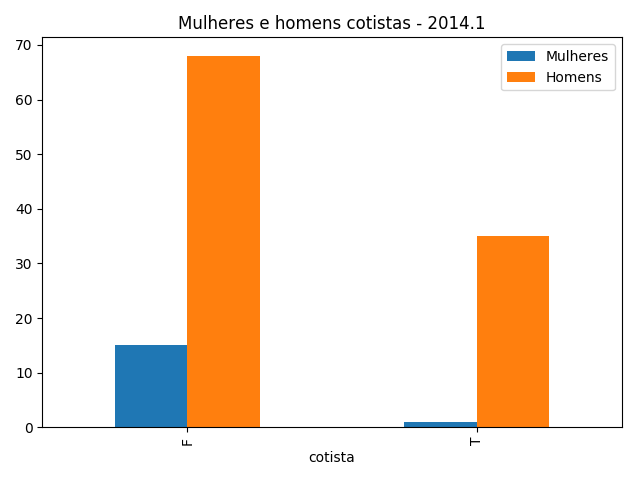
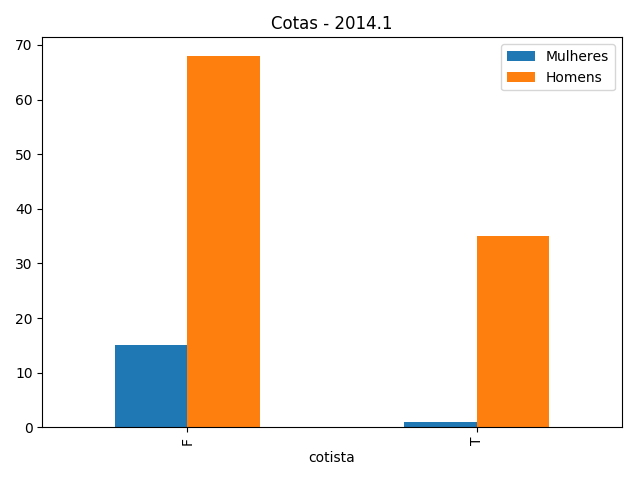
Adiciona plots

Changed region(s): [[0.2812, 0.0312, 0.75, 0.0625]]

diff --git a/results.py b/results.py
@@ -144,7 +144,7 @@ for i, dataframe in enumerate(dataframes):
 	cotista_homens = homens_df.groupby(["cotista"])['sexo'].count()
 	raw_data = {'Mulheres' : cotista_mulheres, 'Homens' : cotista_homens}
 
-	bar_plot(raw_data, semestres[i], "Mulheres e homens cotistas", "cotista")
+	bar_plot(raw_data, semestres[i], "Cotas", "cotista")
 
 	####
 
@@ -178,4 +178,11 @@ for i, dataframe in enumerate(dataframes):
 
 	bar_plot(raw_data, semestres[i], "Auxílio alimentação", "alimentacao")
 
-	
+	####
+
+	transporte_mulheres = mulheres_df.groupby(["possui_auxilio_transporte"])['sexo'].count()
+	transporte_homens = homens_df.groupby(["possui_auxilio_transporte"])['sexo'].count()
+	raw_data = {'Mulheres' : transporte_mulheres, 'Homens' : transporte_homens}
+
+	bar_plot(raw_data, semestres[i], "Auxílio transporte", "transporte")
+
